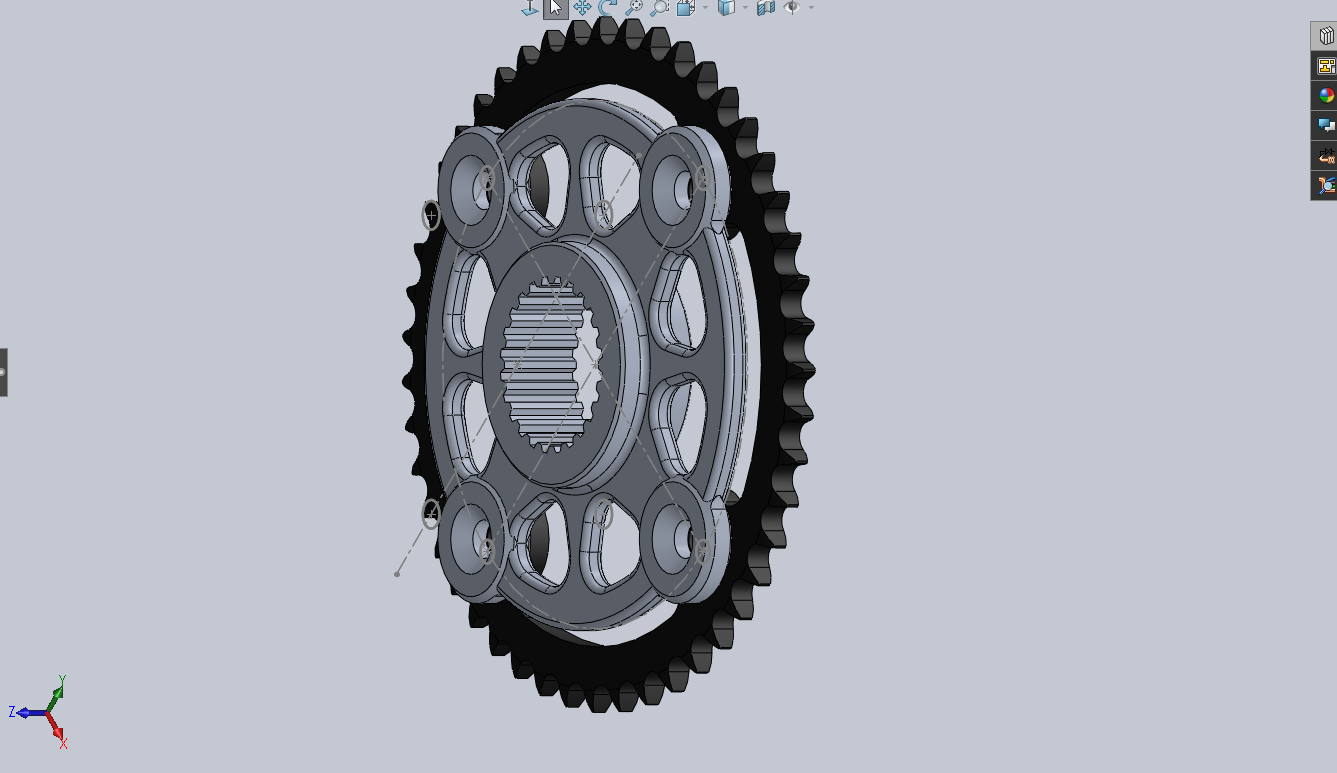
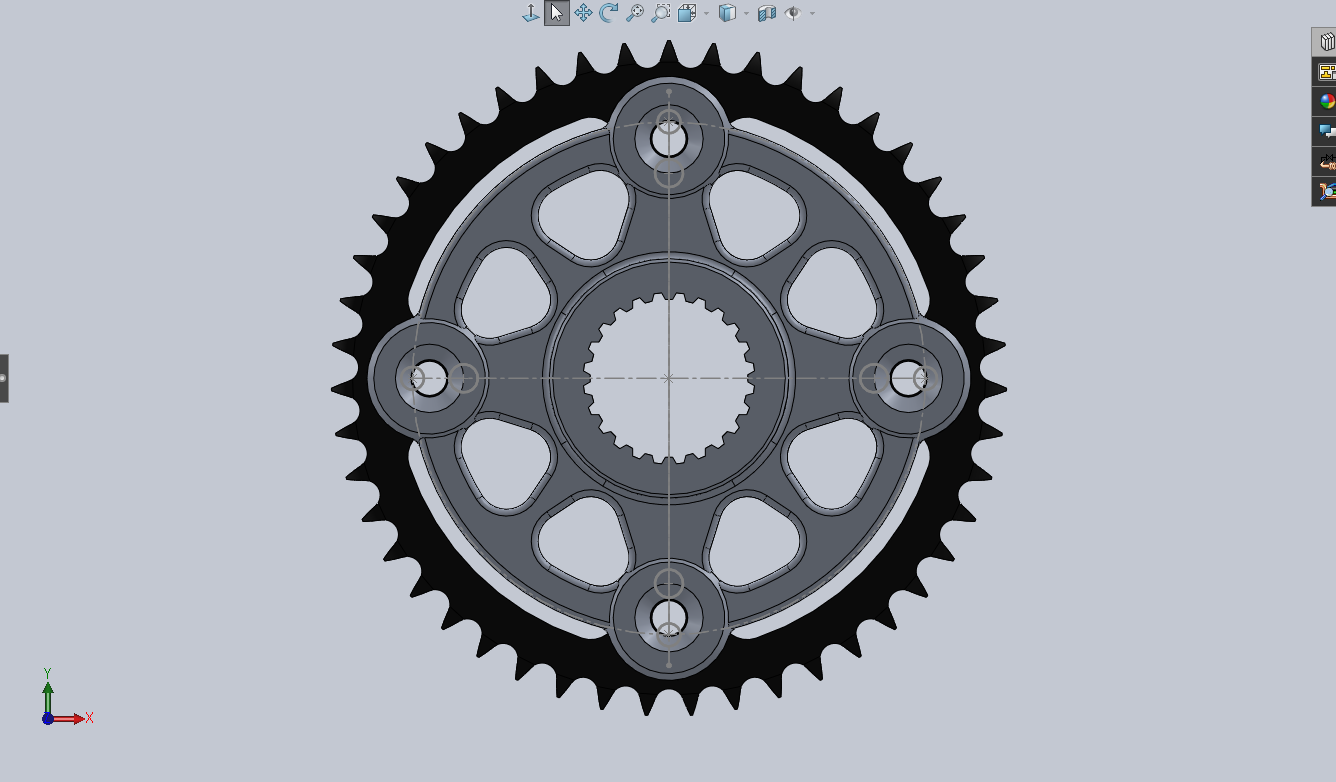
updates

Changed region(s): [[0.2455, 0.0, 0.7672, 0.9314], [0.982, 0.0, 1.0, 0.2794], [0.0, 0.8693, 0.0614, 0.9625]]

diff --git a/Projects/47TFSAESprocket/main.html b/Projects/47TFSAESprocket/main.html
@@ -11,13 +11,16 @@
   <script async src="https://cdn.jsdelivr.net/npm/mathjax@3/es5/tex-mml-chtml.js"></script>
   <style>
     body { margin: 0; background: #fff; color: #000; font-family: Oxygen, sans-serif; line-height: 1.6; }
-    .topbar { position: sticky; top: 0; z-index: 2; background: #fff; padding: 15px 30px; display: flex; justify-content: space-between; align-items: center; }
+    .topbar { position: sticky; top: 0; z-index: 999; background: #fff; padding: 15px 30px; display: flex; justify-content: space-between; align-items: center; }
     .topbar h1, h2, h3, .section-title-left, .project-label, .nav-link { font-family: Bungee, sans-serif; }
-    .topbar h1 { font-size: 1.4rem; margin: 0; letter-spacing: 1px; }
-    .topbar h1 a { color: #000; text-decoration: none; }
-    nav { display: flex; gap: 25px; flex-wrap: wrap; justify-content: center; flex: 1; }
-    nav a { color: #60666B; text-decoration: none; font-size: 1rem; padding: 7px 12px; border-radius: 999px; }
-    nav a:hover, nav a.active { color: #000; }
+    .topbar h1 { font-size: 1.4rem; margin: 0; letter-spacing: 1px; color: #000; }
+    .topbar h1 a { color: inherit; text-decoration: none; }
+    .topbar h1 a:hover { color: #60666B; }
+    nav { position: relative; display: flex; gap: 25px; flex-wrap: wrap; justify-content: center; flex: 1; }
+    nav a { position: relative; z-index: 2; font-family: Bungee, sans-serif; color: #60666B; text-decoration: none; font-size: 1rem; padding: 7px 12px; border-radius: 999px; transition: transform 0.2s ease, color 0.2s ease; }
+    nav a:hover { transform: scale(1.15); color: #000; }
+    nav a.active { color: #000; }
+    .nav-indicator { position: absolute; z-index: 1; top: 50%; left: 0; height: 34px; border: 2px solid #000; border-radius: 999px; background: transparent; opacity: 0; transform: translateY(-50%) translateX(0); transition: transform 0.35s ease, width 0.35s ease, opacity 0.2s ease; pointer-events: none; }
     .content { padding-top: 40px; }
     .project-page { max-width: 1100px; margin: auto; padding: 0 20px; }
     .back-link { display: inline-block; margin-bottom: 25px; color: #000; text-decoration: none; border: 1px solid #000; border-radius: 999px; padding: 8px 14px; font-size: .9rem; }
@@ -40,46 +43,47 @@
     .process-box { padding: 25px; margin-bottom: 25px; display: grid; grid-template-columns: 1fr 1fr; gap: 25px; }
     .process-box ul { margin: 0; padding-left: 20px; }
     .process-box li { margin-bottom: 8px; }
+    .process-image { width: 100%; height: 280px; object-fit: contain; background: #fff; border-radius: 8px; display: block; }
     .resource-grid { display: grid; grid-template-columns: repeat(2, 1fr); gap: 20px; }
     .resource-card { padding: 22px; color: #fff; text-decoration: none; }
     .resource-card h3 { margin-bottom: 8px; }
-    .report-viewer { background: #2B45C4; border-radius: 12px; padding: 18px; }
-    .report-viewer iframe { width: 100%; height: 720px; border: 0; border-radius: 8px; background: #fff; display: block; }
-    .report-link { display: inline-block; margin-top: 14px; color: #fff; font-weight: 700; }
     .equation-box { background: #0F2F75; border-radius: 8px; padding: 14px; margin: 15px 0; overflow-x: auto; text-align: center; }
-    .calculation-grid { display: grid; grid-template-columns: repeat(2, 1fr); gap: 20px; }
-    .calculation-card { background: #2B45C4; border-radius: 12px; padding: 18px; }
-    .calculation-card img { width: 100%; height: 430px; object-fit: contain; background: #fff; border-radius: 8px; display: block; }
+    .hand-calcs-scroll { display: flex; gap: 20px; overflow-x: auto; padding: 0 0 18px; scroll-snap-type: x mandatory; }
+    .hand-calc-page { flex: 0 0 min(78vw, 680px); background: #2B45C4; border-radius: 12px; padding: 18px; scroll-snap-align: start; box-sizing: border-box; }
+    .hand-calc-page img { width: 100%; height: 650px; object-fit: contain; background: #fff; border-radius: 8px; display: block; }
     .comparison-grid { display: grid; grid-template-columns: repeat(2, 1fr); gap: 20px; }
     .comparison-card { background: #2B45C4; border-radius: 12px; padding: 18px; color: #fff; }
     .comparison-card h3 { margin-bottom: 8px; }
     .comparison-card img { width: 100%; height: 300px; object-fit: contain; background: #fff; border-radius: 8px; display: block; }
     .comparison-card p { margin: 10px 0 0; font-size: .92rem; }
+    .drawing-feature { background: #2B45C4; border-radius: 12px; padding: 18px; color: #fff; }
+    .drawing-feature img { width: 100%; max-height: 720px; object-fit: contain; background: #fff; border-radius: 8px; display: block; }
     footer { text-align: center; padding: 40px; color: #60666B; font-size: .8rem; }
-@media (max-width: 850px) { .topbar { flex-direction: column; gap: 15px; } .project-hero, .process-box, .resource-grid, .comparison-grid, .calculation-grid, .weight-callout { grid-template-columns: 1fr; } .hero-placeholder { height: 220px; } }
+@media (max-width: 850px) { .topbar { flex-direction: column; gap: 15px; } .project-hero, .process-box, .resource-grid, .comparison-grid, .weight-callout { grid-template-columns: 1fr; } .hero-placeholder { height: 220px; } }
   </style>
 </head>
 <body>
-<div class="topbar"><h1><a href="../../index.html">CHARLIE CHAVEZ MEELBOOM</a></h1><nav><a class="active" href="#overview">Overview</a><a href="#theory">Theory</a><a href="#process">Process</a><a href="#design">Design</a><a href="#simulation">Simulation</a><a href="#resources">Resources</a></nav></div>
+<div class="topbar"><h1><a href="../../index.html">CHARLIE CHAVEZ MEELBOOM</a></h1><nav><span class="nav-indicator"></span><a class="nav-link active" href="#overview">Overview</a><a class="nav-link" href="#theory">Theory</a><a class="nav-link" href="#process">Process</a><a class="nav-link" href="#design">Design</a><a class="nav-link" href="#resources">Resources</a></nav></div>
   <div class="content"><main class="project-page">
     <a class="back-link" href="../../index.html#projects">← Back to Projects</a>
-    <section class="project-hero"><div><div class="project-label">New project / In progress</div><h2>47T FSAE Sprocket</h2><p class="project-summary">A design study for a 47-tooth FSAE sprocket focused on reducing weight while preserving the requirements needed for reliable drivetrain service.</p><div class="chip-row"><div class="chip">SolidWorks</div><div class="chip">Weight Reduction</div><div class="chip">FSAE</div></div></div><div class="hero-placeholder"><img src="images/47T_CAD_Isometric.png" alt="Isometric CAD view of the 47T FSAE sprocket and hub"></div></section>
+    <section class="project-hero"><div><div class="project-label">New project / In progress</div><h2>47T FSAE Sprocket</h2><p class="project-summary">A design study for a 47-tooth FSAE sprocket focused on reducing weight while preserving the requirements needed for reliable drivetrain service.</p><div class="chip-row"><div class="chip">SolidWorks</div><div class="chip">Weight Reduction</div><div class="chip">FSAE</div></div></div><div class="hero-placeholder"><img src="images/47T_CAD_HubSide.png" alt="Hub-side CAD view of the 47T FSAE sprocket and hub"></div></section>
     <section class="weight-callout"><h3>Major weight reduction</h3><div><div class="weight-value">2,154 g</div><div class="weight-label">Previous design mass</div></div><div><div class="weight-value">927 g</div><div class="weight-label">Revised design mass</div></div><div><div class="weight-value">−57%</div><div class="weight-label">1,227 g saved</div></div></section>
     <div id="overview" class="section-title-left">Overview</div>
     <section class="project-box"><h3>Goal</h3><p>Reduce the sprocket weight by at least 10% while maintaining the functional, packaging, and manufacturing requirements of the FSAE drivetrain.</p></section>
     <section class="project-box"><h3>Design requirements</h3><p>The sprocket must reduce weight by at least 10% while meeting the drivetrain interface requirements. It must use the existing 47-tooth layout, fit an ISO 606 428 motorcycle chain, and mate with the Drexler V3 160 mm differential used by the car.</p></section>
-    <section class="project-box"><h3>Current status</h3><p>The sprocket and hub have been CAD modeled and evaluated with hand calculations and an ANSYS static structural simulation. The design work is organized around the five-step process below.</p></section>
+    <section class="project-box"><h3>Current status</h3><p>The sprocket and hub have been CAD modeled and evaluated with hand calculations and an ANSYS static structural simulation. A drawing has been submitted to the manufacturer for a quote, while the sprocket hub is planned for in-house machining on a 3-axis Haas CNC mill. The design work is organized around the five-step process below.</p></section>
     <div id="theory" class="section-title-left">Optimization Theory</div>
-    <section class="project-box"><h3>From motor torque to tooth loading</h3><p>The optimization starts with the motor torque and the chain back-tension calculation. The torque is converted into a tangential force at the sprocket radius, which establishes the load that must be carried through the tooth arc, web, bolts, and hub.</p><div class="equation-box">\[ M = Fr \qquad\Rightarrow\qquad F = \frac{M}{r} \]</div><p>The calculation notes then treat approximately one quarter of the 47-tooth circumference as the actively loaded tooth region. That loading is transferred from the sprocket teeth into the hub through the bolted connections.</p></section>
-    <section class="project-box"><h3>Shear-stress model</h3><p>For the first sizing pass, the notes model a representative tooth segment as an arc with length \(L\) and thickness \(t\). The loading sketch estimates that approximately 25% of the teeth carry about 99% of the load, while the representative segment area is written as:</p><div class="equation-box">\[ A = Lt = \left(\frac{1}{47}\right)2\pi r t \]</div><p>Combining the torque relationship with the shear area gives the estimated shear stress:</p><div class="equation-box">\[ \tau = \frac{F}{A} = \frac{M}{rLt} = \frac{M}{\left(\frac{1}{47}\right)2\pi r^2 t} \]</div><p>This simplified model makes the design tradeoff visible: increasing the loaded arc length or the local thickness lowers the calculated shear stress, while removing material reduces both the resisting area and the mass.</p></section>
-    <section class="project-box"><h3>Safety-factor target and topology decision</h3><p>The hand calculations set a target design factor of safety of at least 3. The allowable stress is related to the material strength, and the required resisting length is solved from the safety-factor relationship:</p><div class="equation-box">\[ n_d = \frac{S_{yB}}{\tau} \qquad\text{with a design target of}\qquad n_d \ge 3 \]</div><p>Once the required arc length is estimated, it is converted into an angular span around the hub:</p><div class="equation-box">\[ L = \left(\frac{\theta}{360^\circ}\right)2\pi r \qquad\Rightarrow\qquad \theta = 360^\circ\frac{L}{2\pi r} \]</div><p>The design process uses that angle to keep material where it carries load and remove material from lower-load regions. The remaining support is patterned around the hub so the load is distributed across the four mounting locations instead of concentrating all of the reaction at one section.</p></section>
-    <div class="section-title-left">Calculation Notes</div><div class="calculation-grid"><div class="calculation-card"><h3>Geometry and load path</h3><img src="images/calculation-pages/page-1.jpg" alt="Handwritten sprocket geometry and load-path notes"></div><div class="calculation-card"><h3>Loading condition and moment</h3><img src="images/calculation-pages/page-2.jpg" alt="Handwritten sprocket loading condition and moment calculation"></div><div class="calculation-card"><h3>Force, shear, and thickness</h3><img src="images/calculation-pages/page-3.jpg" alt="Handwritten sprocket force and shear-stress equations"></div><div class="calculation-card"><h3>Safety factor and arc length</h3><img src="images/calculation-pages/page-4.jpg" alt="Handwritten sprocket factor-of-safety and arc-length calculation"></div><div class="calculation-card"><h3>Topology update</h3><img src="images/calculation-pages/page-5.jpg" alt="Handwritten sprocket topology update calculation"></div></div>
+    <section class="project-box"><h3>From motor torque to tooth loading</h3><p>The motor produces a maximum torque of 107 N·m. The 10-tooth motor sprocket has a 41 mm pitch-circle diameter, so the motor torque is converted into chain pull using:</p><div class="equation-box">\[ M = Fr \qquad\Rightarrow\qquad F = \frac{M}{r} \]</div><p>The chain pull is then combined with the chain's centrifugal tension. The resulting total chain tension is approximately 5,357 N. Because the force is not shared evenly, the first engaged tooth carries the greatest load and the force decreases according to the back-tension calculation.</p><p>The back-tension values show that the first 11 teeth carry approximately 99% of the total load. This localized load path is the key reason the hub can be optimized instead of treating the entire circular hub as equally loaded.</p></section>
+    <section class="project-box"><h3>Shear-stress model</h3><p>Topology optimization begins at the 35 mm radius, because the hub must remain 27 mm thick from the center out to the 70 mm diameter needed to fit the differential. For a radius \(r\) beyond that region, the loaded arc is approximated as \(11/47\) of the circumference:</p><div class="equation-box">\[ A = Lt = \left(\frac{11}{47}\right)2\pi r t \]</div><p>Using the acting moment and the force at any radius gives the shear stress:</p><div class="equation-box">\[ F(r) = \frac{M_{acting}}{r} \qquad\text{and}\qquad \tau = \frac{F}{A} = \frac{M_{acting}}{\left(\frac{11}{47}\right)2\pi r^2 t} \]</div><p>This equation shows why material is most valuable near the smaller radii: stress decreases with (r^2). Material can therefore be removed farther from the center while retaining load-carrying material around the hub and bolt connections.</p></section>
+    <section class="project-box"><h3>Safety factor and topology decision</h3><p>The hand calculations set a target design factor of safety of at least 3. Using the maximum-shear-stress assumption, shear strength is approximated as half of tensile yield strength. For 7075-T6 aluminum, the calculation uses a tensile yield strength of approximately 503 MPa and solves for the required thickness:</p><div class="equation-box">\[ n_d = \frac{S_{ys}}{\tau} \qquad\Rightarrow\qquad t = \frac{6M_{acting}}{\left(\frac{11}{47}\right)2\pi r^2 S_{yt}} \]</div><p>The resulting minimum solid-hub thickness is approximately 6 mm. Because the hub needs cutouts for heat dissipation and to limit flexing across the thin cross-section, the design increases the local thickness to 7.31 mm, matching the thickness used successfully in last year's geometry.</p><p>With thickness known, the required material at each radius is converted into an angular span:</p><div class="equation-box">\[ L = \left(\frac{\theta}{360^\circ}\right)2\pi r \qquad\Rightarrow\qquad \theta = 360^\circ\left(\frac{6M_{acting}}{2\pi r^2 S_{yt}t}\right) \]</div><p>Those angles were plotted at different radii to guide the hub topology. The material was then patterned around the four mounting locations so the design remained lightweight while maintaining a continuous load path.</p></section>
+    <section class="project-box"><h3>Material and bolt decisions</h3><p>Weight reduction comes from replacing the previous bulky steel construction with more aluminum while retaining steel where the drivetrain interfaces require it. 7075-T6 aluminum has a density of approximately 2.81 g/cm³, compared with approximately 7.85 g/cm³ for 4340 steel. The M10 mounting bolts were selected after iterating the bearing-yield calculation; the documented configuration produced a factor of safety of 4.245 and required approximately 9.23 mm of local thickness at the bore.</p><div class="equation-box">\[ \sigma_{bearing} = \frac{F}{Dt} \]</div><p>The spline shear analysis was not repeated because the spline is supplied by Drexler. The hub was instead evaluated around the shear-stress, bolt-bearing, and mounting-interface load paths.</p></section>
     <div id="process" class="section-title-left">Process</div>
-    <section class="process-box"><div><h3>Step One / Determine requirements</h3><p>The first step was defining the interfaces and performance target for the sprocket:</p><ul><li>Reduce sprocket weight by at least 10%.</li><li>Use the required 47-tooth geometry.</li><li>Fit an ISO 606 428 motorcycle chain.</li><li>Fit the Drexler V3 160 mm differential hub.</li></ul></div><div><h3>Interface constraints</h3><p>The chain standard controls the tooth profile and pitch, while the differential determines the hub geometry, mounting pattern, and packaging constraints. Both interfaces had to be established before material could be removed from the sprocket.</p></div></section>
-    <section class="process-box"><div><h3>Step Two / Determine loading and restraints</h3><p>The primary load case starts with 107 N·m of torque from the motor. That torque was carried through the chain back-tension equation to determine the force applied at the teeth of the 47-tooth sprocket. The restraint condition represents the sprocket and hub being supported through their mounting interface to the Drexler differential.</p></div><div><h3>Load path</h3><p>The resulting tooth force is transferred through the sprocket web and hub into the differential mounting interface. Defining this load path established the inputs for both the hand calculations and the ANSYS static simulation.</p></div></section>
-    <section class="process-box"><div><h3>Step Three / Hand calculations</h3><p>Hand calculations were used to convert motor torque into chain tension and tooth loading before running finite-element analysis. These calculations provided a first check on the expected stresses and helped verify that the simulation setup was using a reasonable force.</p></div><div><h3>Calculation basis</h3><p>The calculation workbook documents the tooth-force calculation and served as an independent engineering check against the later ANSYS results rather than relying on the simulation alone.</p></div></section>
-    <section class="process-box"><div><h3>Step Four / CAD the sprocket and hub</h3><p>The sprocket and its hub were modeled in CAD around the 428 chain interface and Drexler differential mounting requirements. The geometry was developed so that weight-reduction features could be evaluated without changing the required chain or differential interfaces.</p></div><div><h3>CAD focus</h3><p>The CAD stage connected the tooth profile, sprocket web, and differential hub into one assembly-ready design for structural evaluation.</p></div></section>
-    <section class="process-box"><div><h3>Step Five / ANSYS static simulation</h3><p>The final step was setting up an ANSYS static structural simulation using the calculated tooth loading and hub restraints. The simulation was used to evaluate how the sprocket responds to the motor-torque load case and to check the lightweight design against the hand calculations.</p></div><div><h3>Validation</h3><p>The design was assessed by comparing the finite-element response with the analytical load path and the original weight-reduction target. The simulation report is available in the project resources below.</p></div></section>
+    <section class="process-box"><div><h3>Step One / Determine requirements</h3><p>The first step was defining the interfaces and performance target for the sprocket:</p><ul><li>Reduce sprocket weight by at least 10%.</li><li>Use the required 47-tooth geometry.</li><li>Fit an ISO 606 428 motorcycle chain.</li><li>Fit the Drexler V3 160 mm differential hub.</li><li>Maintain four mounting bores, matching last year's assembly baseline.</li></ul></div><div><h3>Interface constraints</h3><p>The ISO 606 chain standard controls the tooth profile and pitch. I modeled the chain rollers and chain-plate clearance, then added approximately 4 mm of clearance to determine the maximum hub diameter. A 15 mm gap between that maximum hub diameter and the bolt bores set the bore radius at 70 mm, or 140 mm bore-circle diameter.</p><img class="process-image" src="images/47T_Drawing.png" alt="47T sprocket drawing showing chain and mounting requirements"></div></section>
+    <section class="process-box"><div><h3>Step Two / Determine loading and restraints</h3><p>The primary load case starts with 107 N·m of motor torque. The 10-tooth motor sprocket's 41 mm pitch-circle diameter produces approximately 5,357 N of total chain tension after the chain-pull and centrifugal-tension contributions are combined. The back-tension calculation distributes this force across the engaged teeth, with the first 11 teeth carrying approximately 99% of the total load.</p><img class="process-image" src="images/Back_Tension_Values.png" alt="Back-tension values by engaged sprocket tooth"></div><div><h3>Worst-case load path</h3><p>The worst-case assumption is differential lockup: the sprocket and hub resist the motor-applied tooth loads while the spline is fixed. The reactions are transferred through the sprocket web, four mounting bolts, and hub into the Drexler differential interface.</p><img class="process-image" src="images/calculation-pages/page-2.jpg" alt="Handwritten loading condition and moment calculation"></div></section>
+    <section class="process-box"><div><h3>Step Three / Hand calculations</h3><p>Hand calculations were used to convert motor torque into chain tension and tooth loading before running finite-element analysis. The hub checks covered shear stress at each radius and bearing yield at the mounting bores. The sprocket checks covered bearing yield at the bolt locations and tooth shear; spline shear was not repeated because the spline is supplied by Drexler.</p><img class="process-image" src="images/calculation-pages/page-3.jpg" alt="Handwritten force and shear-stress calculations"></div><div><h3>Calculation basis</h3><p>The calculation workbook documents the tooth-force calculation, the 99%-of-load first-11-teeth assumption, the thickness sizing, and the bolt-bearing iteration. The M10 bolt configuration produced a documented bearing factor of safety of 4.245 with approximately 9.23 mm of local thickness.</p><img class="process-image" src="images/calculation-pages/page-4.jpg" alt="Handwritten factor-of-safety and thickness calculation"></div></section>
+    <section class="process-box"><div><h3>Step Four / CAD the sprocket and hub</h3><p>The sprocket and hub were modeled around the 428 chain interface and Drexler differential mounting requirements. The hub retained 27 mm of thickness in the differential-fit region, then used the calculated 7.31 mm minimum local thickness as the starting point for the lightweight web and cutouts.</p><img class="process-image" src="images/47T_CAD_HubSide.png" alt="Hub-side CAD model of the 47T sprocket assembly"></div><div><h3>CAD focus</h3><p>The CAD stage connected the tooth profile, chain clearance, four-bolt mounting pattern, spline interface, sprocket web, and differential hub into one assembly-ready design. The cutouts reduce mass while preserving the load path and improving the hub's heat-dissipation potential.</p><img class="process-image" src="images/47T_CAD_Isometric.png" alt="Isometric CAD model of the 47T sprocket and hub"></div></section>
+    <section class="drawing-feature"><h3>47T Manufacturing Drawing</h3><img src="images/47T_Drawing.png" alt="47T ISO 606 428 chain sprocket manufacturing drawing"><p>The drawing shows the 47-tooth profile, 428 chain geometry, four-bolt pattern, hub dimensions, and the selected 7.31 mm section thickness.</p></section>
+    <section class="process-box"><div><h3>Step Five / ANSYS static simulation</h3><p>The final step was setting up an ANSYS static structural simulation using the calculated tooth loading and hub restraints. The bolt preload was set to 75% of bolt strength, the spline was fixed to represent the differential interface, and the sprocket teeth were loaded using the back-tension values.</p><img class="process-image" src="images/47T_FEA_Setup_Front.png" alt="ANSYS static structural setup for the revised sprocket"></div><div><h3>Validation</h3><p>The design was assessed by comparing the finite-element response with the analytical load path and the original weight-reduction target. The simulation report is available in the project resources below.</p><img class="process-image" src="images/47T_FEA_FactorofSafety_Front.png" alt="ANSYS factor-of-safety result for the revised sprocket"></div></section>
     <div id="design" class="section-title-left">Design and FEA Comparison</div>
     <section class="project-box"><h3>Old versus revised sprocket</h3><p>The revised sprocket changes the web geometry and integrates the hub interface for the Drexler differential. The side-by-side FEA results show how each design responds to its documented static structural setup. The minimum factor of safety is below 1.0 in both results and is concentrated at the mounting bores, but the revised design shows higher factors of safety throughout much of the rest of the part. The previous year's sprocket operated without failure during vehicle use, and the revised design has a similar overall factor-of-safety response, supporting use of the simulated geometry as a design basis while the bore regions remain areas for attention.</p></section>
     <div class="comparison-grid">
@@ -87,10 +91,47 @@
       <div class="comparison-card"><h3>Factor of safety / revised design</h3><img src="images/47T_FEA_FactorofSafety_Front.png" alt="Factor of safety result for the revised 47T sprocket design"><p>Reported minimum factor of safety: 0.5503 at a mounting-bore region. The revised design has higher safety factors across much of the remaining sprocket compared with the old design.</p></div>
       <div class="comparison-card"><h3>Total deformation / old design</h3><img src="images/47T_FEA_TotalDeformation_Front_OLD.png" alt="Total deformation result for the old 47T sprocket design"><p>Reported maximum deformation: 0.00040371 m.</p></div>
       <div class="comparison-card"><h3>Total deformation / revised design</h3><img src="images/47T_FEA_TotalDeformation_Front.png" alt="Total deformation result for the revised 47T sprocket design"><p>Reported maximum deformation: 0.00049765 m.</p></div>
+      <div class="comparison-card"><h3>FEA setup / old design</h3><img src="images/47T_FEA_Setup_Front_OLD.png" alt="FEA setup for the old 47T sprocket design"><p>Old-design restraint and loading setup used for comparison.</p></div>
+      <div class="comparison-card"><h3>FEA setup / revised design</h3><img src="images/47T_FEA_Setup_Front.png" alt="FEA setup for the revised 47T sprocket design"><p>Revised setup with the fixed spline, bolt preload, and tooth loading.</p></div>
     </div>
-    <div class="section-title-left">CAD Media</div><div class="comparison-grid"><div class="comparison-card"><h3>Isometric CAD view</h3><img src="images/47T_CAD_Isometric.png" alt="Isometric CAD view of the 47T sprocket and hub"><p>Isometric view of the sprocket and integrated hub design.</p></div><div class="comparison-card"><h3>Mounting position</h3><img src="images/47T_CAD_MountingPostion.png" alt="47T sprocket mounted in the drivetrain CAD assembly"><p>Drivetrain packaging view showing the sprocket mounting position.</p></div></div>
-    <div id="simulation" class="section-title-left">ANSYS Simulation Results</div><section class="report-viewer"><iframe src="documents/ANSYS%20Sprocket%20Static%20Simulation%20Results.pdf" title="ANSYS sprocket static simulation results"></iframe><a class="report-link" href="documents/ANSYS%20Sprocket%20Static%20Simulation%20Results.pdf" target="_blank">Open the simulation report in a new tab</a></section>
-    <div id="resources" class="section-title-left">Resources</div><div class="resource-grid"><a class="resource-card" href="https://github.com/CCMEELBOOM/ccmeelboom/tree/main/Projects/47TFSAESprocket" target="_blank"><h3>Project files</h3><p>View the sprocket project files on GitHub.</p></a><a class="resource-card" href="documents/47T%20ISO%20606%20428%20Chain%20Sprocket%20V2.pdf" target="_blank"><h3>Design drawing</h3><p>Open the 47T ISO 606 428 chain sprocket drawing.</p></a><a class="resource-card" href="documents/AER%2027%20Sprocket%20Calculations.xlsx" target="_blank"><h3>Hand calculations</h3><p>Open the spreadsheet used for the tooth-force calculation.</p></a><a class="resource-card" href="documents/ANSYS%20Sprocket%20Static%20Simulation%20Results.pdf" target="_blank"><h3>ANSYS results</h3><p>Open the static structural simulation report.</p></a></div>
+    <div class="section-title-left">CAD Media</div><div class="comparison-grid"><div class="comparison-card"><h3>Isometric CAD view</h3><img src="images/47T_CAD_Isometric.png" alt="Isometric CAD view of the 47T sprocket and hub"><p>Isometric view of the sprocket and integrated hub design.</p></div><div class="comparison-card"><h3>Mounting position</h3><img src="images/47T_CAD_MountingPostion.png" alt="47T sprocket mounted in the drivetrain CAD assembly"><p>Drivetrain packaging view showing the sprocket mounting position.</p></div><div class="comparison-card"><h3>Hub-side CAD view</h3><img src="images/47T_CAD_HubSide.png" alt="Hub-side CAD view of the 47T sprocket assembly"><p>Hub-side view showing the spline and four-bolt interface.</p></div><div class="comparison-card"><h3>Sprocket-side CAD view</h3><img src="images/47T_CAD_SprocketSide.png" alt="Sprocket-side CAD view of the 47T sprocket assembly"><p>Sprocket-side view showing the chain teeth and lightweight web.</p></div><div class="comparison-card"><h3>Manufacturing drawing</h3><img src="images/47T_Drawing.png" alt="47T ISO 606 428 chain sprocket manufacturing drawing"><p>Drawing showing the 47-tooth profile, bolt pattern, hub geometry, and final thickness.</p></div></div>
+    <div class="section-title-left">Hand Calcs</div><div class="hand-calcs-scroll" aria-label="Hand calculation pages"><div class="hand-calc-page"><img src="images/calculation-pages/page-1.jpg" alt="Hand calculation page 1"></div><div class="hand-calc-page"><img src="images/calculation-pages/page-2.jpg" alt="Hand calculation page 2"></div><div class="hand-calc-page"><img src="images/calculation-pages/page-3.jpg" alt="Hand calculation page 3"></div><div class="hand-calc-page"><img src="images/calculation-pages/page-4.jpg" alt="Hand calculation page 4"></div><div class="hand-calc-page"><img src="images/calculation-pages/page-5.jpg" alt="Hand calculation page 5"></div></div>
+    <div id="resources" class="section-title-left">Resources</div><div class="resource-grid"><a class="resource-card" href="https://github.com/CCMEELBOOM/ccmeelboom/tree/main/Projects/47TFSAESprocket" target="_blank"><h3>Project files</h3><p>View the sprocket project files on GitHub.</p></a><a class="resource-card" href="documents/47T%20ISO%20606%20428%20Chain%20Sprocket%20V2.pdf" target="_blank"><h3>Design drawing</h3><p>Open the 47T ISO 606 428 chain sprocket drawing.</p></a><a class="resource-card" href="documents/AER%2027%20Sprocket%20Calculations.xlsx" target="_blank"><h3>Hand calculations</h3><p>Open the spreadsheet used for the tooth-force calculation.</p></a><a class="resource-card" href="documents/47T%20Sprocket%20Explanation.docx" target="_blank"><h3>Project explanation</h3><p>Open the written sprocket project outline.</p></a></div>
   </main></div><footer>© 2026 Charlie Chavez Meelboom</footer>
+<script>
+  const nav = document.querySelector("nav");
+  const navLinks = document.querySelectorAll(".nav-link");
+  const navIndicator = document.querySelector(".nav-indicator");
+  const sections = document.querySelectorAll("#overview, #theory, #process, #design, #resources");
+
+  function moveNavIndicator(activeLink) {
+    const navRect = nav.getBoundingClientRect();
+    const linkRect = activeLink.getBoundingClientRect();
+    navIndicator.style.width = `${linkRect.width}px`;
+    navIndicator.style.transform = `translateY(-50%) translateX(${linkRect.left - navRect.left}px)`;
+    navIndicator.style.opacity = "1";
+  }
+
+  function updateActiveNav() {
+    let currentSection = "overview";
+    sections.forEach(section => {
+      if (window.scrollY >= section.offsetTop - 160) currentSection = section.id;
+    });
+
+    navLinks.forEach(link => {
+      const isActive = link.getAttribute("href") === `#${currentSection}`;
+      link.classList.toggle("active", isActive);
+      if (isActive) moveNavIndicator(link);
+    });
+  }
+
+  navLinks.forEach(link => {
+    link.addEventListener("click", () => setTimeout(updateActiveNav, 150));
+  });
+
+  window.addEventListener("scroll", updateActiveNav);
+  window.addEventListener("resize", updateActiveNav);
+  window.addEventListener("load", updateActiveNav);
+</script>
 </body>
 </html>

diff --git a/index.html b/index.html
@@ -1001,14 +1001,14 @@
         <div class="project-box">
           <div class="project-info">
             <div class="project-top">
-              <div class="chip">In Progress</div>
+              <div class="chip">Completed Design</div>
               <div class="chip">FSAE</div>
             </div>
 
             <h3 class="project-title">47T FSAE Sprocket</h3>
 
             <p class="project-description">
-              Designing a 47-tooth FSAE sprocket with a goal of reducing weight by at least 10% while maintaining drivetrain, packaging, and manufacturing requirements.
+              Completed the design and structural validation of a 47-tooth FSAE sprocket, reducing the design mass from 2,154 g to 927 g—a 57% reduction—while maintaining the drivetrain, chain, packaging, and manufacturing requirements.
             </p>
 
             <a class="project-link" href="./Projects/47TFSAESprocket/main.html">View Project</a>
